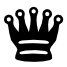
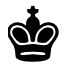
Schach & Schachmatt Funktion
*Rohentwurf mit grober Funktionalität

Changed region(s): [[0.0597, 0.0597, 0.9552, 0.9254], [0.4776, 0.6866, 0.806, 0.9254], [0.7761, 0.597, 0.8358, 0.6567]]

diff --git a/index.php b/index.php
@@ -8,6 +8,16 @@
 	
 	
 	<?php
+			include './rules/bauer.php';
+			include './rules/turm.php';
+			include './rules/dame.php';
+			include './rules/konig.php';
+			include './rules/laufer.php';
+			include './rules/pferd.php';
+
+
+
+
 		 //Funktion um PHP Funktionen zu debuggen
         function debug_to_console( $data ) {
 
@@ -47,10 +57,8 @@
 		 * @param  [string] $_leer
 		 * @return [boolean]
 		 */
-		function isZugErlaubt($_vZ, $_vS, $_nZ, $_nS, $_brett, $_leer, $_zugFarbe)
+		function isZugErlaubt($_vZ, $_vS, $_nZ, $_nS, $_brett, $_leer, $_zugFarbe, $_4Schach)
 		{
-				debug_to_console("Fuction isZugerLaubt");
-				debug_to_console("isZugErlaubt-paras:".$_vZ.",".$_vS.",".$_nZ.",".$_nS.",".$_leer);
 
 				//ENUM
 				$WEISS = "w";
@@ -61,63 +69,56 @@
 				$boo = false;
 				
 			//Wenn die Zugnummer gerade ist, ist weiß am Zug wenn es ungerade ist schwarz	
-			debug_to_console("$_zugFarbe");
 								
 			//---------Quellfigur			
 			$rawFigur = $_brett[$_vZ][$_vS];
 			$figurFarbe = ($rawFigur[0] == $WEISS ? $WEISS : "");
 			$figurName = ($figurFarbe == $WEISS ? substr($rawFigur, 1) : substr($rawFigur, 0));
 
-			debug_to_console ("Figur war:".$figurFarbe.$figurName);
 	
 			//------ Ziel Position
 			$zielPosition = $_brett[$_nZ][$_nS];
 			$zielPositionIsLerr = ($zielPosition == "leer" ? true : false);
 	
 			$feldFigurFarbe = (!$zielPositionIsLerr && $zielPosition[0] == $WEISS ) ? $WEISS : $SCHWARZ ;
-			debug_to_console ("Gegner ist/war ".$feldFigurFarbe.$zielPosition." <br>");
 		
 			
 			//Wenn die _zugFarbe ungleich der Figurfarbe? Quasi das der Spieler die richtige Farbe bewegt
 			if($_zugFarbe != $figurFarbe)
 			{
 				
-				debug_to_console("Figurname: ". $figurName);
+				//debug_to_console("Figurname: ".$figurFarbe. $figurName);
+			
 				switch($figurName){
-				 
+					
 					case ("bauer"):
 					
-					 	include './rules/'.$figurName.'.php';
 					 	$isZugKorrekt = checkBauer($_vZ, $_vS, $_nZ, $_nS, $_brett, $_leer, $feldFigurFarbe, $figurFarbe);
 						
 						break;
 					case("turm"):
 						
-					 	include './rules/'.$figurName.'.php';
 					 	$isZugKorrekt = checkTurm($_vZ, $_vS, $_nZ, $_nS, $_brett, $_leer, $feldFigurFarbe, $figurFarbe);
 		
 						break;
 					case("laufer"):
 						
-						include './rules/'.$figurName.'.php';
 					 	$isZugKorrekt = checkLaufer($_vZ, $_vS, $_nZ, $_nS, $_brett, $_leer, $feldFigurFarbe, $figurFarbe);
 						break;
 					
 					case("pferd"):
 						
-						include './rules/'.$figurName.'.php';
 						$isZugKorrekt = checkPferd($_vZ, $_vS, $_nZ, $_nS, $_brett, $_leer, $feldFigurFarbe, $figurFarbe);
 						break;
 	
-					case("koenig"):
-						
-						
+					case("konig"):
+						$isZugKorrekt = checkKonig($_vZ, $_vS, $_nZ, $_nS, $_brett, $_leer, $feldFigurFarbe, $figurFarbe);
 						break;
+						
+					 
 					case("dame"):
+									
 						
-						
-						include './rules/turm.php';
-						include './rules/laufer.php';
 						$isZugKorrekt = checkTurm($_vZ, $_vS, $_nZ, $_nS, $_brett, $_leer, $feldFigurFarbe, $figurFarbe) || checkLaufer($_vZ, $_vS, $_nZ, $_nS, $_brett, $_leer, $feldFigurFarbe, $figurFarbe) ? true : false;
 
 						break;
@@ -131,7 +132,6 @@
 			else{
 				debug_to_console("Zug nicht erlaubt -- Farben gleich");
 				$isZugKorrekt = false;
-				echo "Falscher Spieler <br>";
 			}
 
 			
@@ -171,15 +171,19 @@
 						echo "nZ:".$nZ;
 						echo "nS:".$nS;
 						echo "--------------";
-						$_zug_erlaubt = isZugErlaubt($vZ, $vS, $nZ, $nS, $brett, $leer, $zugNum);
+						$_zug_erlaubt = isZugErlaubt($vZ, $vS, $nZ, $nS, $brett, $leer, $zugNum, false);
 					
 					//TODO Gucken Feierbaned
 						if($_zug_erlaubt){
 							debug_to_console("Zug erlaubt!!!!!!");
-							$zugNum++;
+							
 							$brett[$nZ][$nS]=$brett[$vZ][$vS];
 							$brett[$vZ][$vS]=$leer;
 							
+							include '/rules/schach.php';
+							$isSchach = SchachPrufung($brett,$nZ,$nS,$zugNum,$leer,true);
+								 
+							$zugNum++;
 						}
 						 
 						$Weitergabe = serialize($brett); 
@@ -197,7 +201,7 @@
 						array('','leer','leer','leer','leer','leer','leer','leer','leer'),
 						array('','leer','leer','leer','leer','leer','leer','leer','leer'),
 						array('','wbauer','wbauer','wbauer','wbauer','wbauer','wbauer','wbauer','wbauer'),
-						array('','wturm','wpferd','wlaufer','wkonig','wdame','wlaufer','wpferd','wturm')
+						array('','wturm','wpferd','wlaufer','wdame','wkonig','wlaufer','wpferd','wturm')
 						
 					); 
 		

diff --git a/rules/schach.php b/rules/schach.php
@@ -1,0 +1,110 @@
+<?php
+	 
+
+	function SchachPrufung($_brett,$_vZ,$_vS,$_zugNum,$_leer,$_4Schach){
+		$WEISS = "w";
+		$zugFarbe = $_zugNum % 2 == 0 ? $WEISS : "" ;
+		$meinFigur = $_brett[$_vZ][$_vS];
+		debug_to_console("Prüfung auf Schach mit ".$meinFigur);
+
+		for ($z=1; $z < 8 ; $z++) 
+		{ 
+			for ($s=1; $s<8 ; $s++) 
+			{ 
+
+				debug_to_console($z.$s);  
+				if ($_brett[$z][$s]==$zugFarbe."konig") 
+				{
+						$konigS = $s;
+						$konigZ = $z;
+						debug_to_console("König gefunden auf Zeile:".$z." Spalte:".$s);
+
+						$isSchach = isZugErlaubt($_vZ,$_vS,$konigZ,$konigS,$_brett,$_zugNum,$_leer,$_4Schach);	 
+						if ($isSchach) 
+						{
+							debug_to_console("Der Gegnerkönig steht im Schach");
+							$isMatt = SchachMattPrufung($konigZ,$konigS,$_brett,$_zugNum);
+							if (!$isMatt) {
+								echo "<h1>SCHAMCHTTTTTTTTT</h1>";
+							}
+							return true;
+						}
+						break;
+					 	
+				}
+			}
+		}
+
+	}
+
+	function SchachMattPrufung($_konigZ,$_konigS,$_brett,$_zugNum)
+	{
+		debug_to_console("--------------------SchachMattPrufung------");
+		// Prüfung jedes nicht weiter als 1 entfernte Feld ob es leer ist && Prufe ob alle Gegner Figuren da hin kommen
+		$zugFarbe = $_zugNum % 2 == 0 ? "w" : "" ;
+		$konigFarbe = getFigurFarbe($_brett,$_konigZ,$_konigS);
+		$MoglicherAusweichPunkt = true;
+
+		for ($zeile=1; $zeile<=8 ; $zeile++) 
+		{ 
+			for ($s=1; $s<=8 ; $s++) 
+			{ 
+					if ($_brett[$zeile][$s] == "leer" && isZugErlaubt($_konigZ,$_konigS,$zeile,$s,$_brett,"leer",$_zugNum,false) ) 
+					{
+						debug_to_console("MoglicherAusweichPunkt bei".$zeile.$s." postiv");
+					 
+							
+							for ($z2=1; $z2 <= 8; $z2++) 
+							{ 
+								for ($s2=1; $s2 <= 8; $s2++) 
+								{ 
+									
+									if ($_brett[$z2][$s2] != "leer" && $konigFarbe != getFigurFarbe($_brett,$z2,$s2) ) 
+									{
+										//debug_to_console($_brett[$z2][$s2]." auf $z2 $s2 wird auf mögichen Zug gegen König probiert");
+										$zuger = isZugErlaubt($z2, $s2, $zeile, $s, $_brett, "leer", $zugFarbe, "false");
+										if ($zuger) 
+										{
+											debug_to_console($_brett[$z2][$s2]." kann den König schlagen");
+											$MoglicherAusweichPunkt = false;
+										}
+
+									 
+
+									
+								}
+							}
+
+						
+
+					}
+
+
+				}
+
+			}
+		
+			
+		}				
+			return $MoglicherAusweichPunkt;
+	}
+
+	function getFigurFarbe($_brett,$_z,$_s){
+		$WEISS = "w";
+		$rawFigur = $_brett[$_z][$_s];
+		switch ($rawFigur[0]) {
+			case 'w':
+				return "w";
+				break;
+			
+			//case 'l':
+			//	return "leer";
+			//	break;
+
+			default:
+				return "";
+				break;
+
+		}
+	}
+?>

diff --git a/rules/laufer.php b/rules/laufer.php
@@ -7,42 +7,51 @@ function checkLaufer($_vZ, $_vS, $_nZ, $_nS, $_brett, $_leer, $_feldFigurFarbe, 
 	$isZugKorrekt = false;
 	
 	$abstand = 	($_vZ*8+$_vS)-($_nZ*8+$_nS);
-	$richtung = ($_vZ*8+$_vS) < ($_nZ*8+$_nS) ? 1 : -1;
-	$isBlocked = true;
+	$richtungH = ($_vZ*8+$_vS) < ($_nZ*8+$_nS) ? 1 : -1;
+	$richtungV = $_vS > $_nS ? -1 : 1;
+	$isBlocked = false;
 	$pos1 = ($_vZ*7+$_vS); echo "$pos1";
 	$pos2 = ($_nZ*7+$_nS); echo "$pos2";
 	$isRichtunOK = false;
 
 
-			if ($abstand%7==0) {
-				$isRichtunOK = true;
-				for ($i=$pos1+($richtung*7); $i < $pos2 || $i > $pos2 ; $i=$i+($richtung*7))
-				{
+	if ($abstand%7==0) {
+		$isRichtunOK = true;
 
-					debug_to_console("7floor:".floor($i/7)." & Modulo: ". $i%8);
-					debug_to_console($_brett[floor($i/7)][$i%8]);
-					if ($_brett[floor($i/7)][$i%8] == $_leer) {
-						$isBlocked = false;
-						debug_to_console("Da ist ein ".$_brett[floor($i/7)][$i%8]." im Weg");
-						break;
-					}
 					
+					
+		for ($s=$_vS+$richtungV,$z=$_vZ+$richtungH; $z*7+$s!=$_nZ*7+$_nS; $s+=$richtungV,$z+=$richtungH)
+		{
+				/*debug_to_console("Von:".($z*7+$s)." Nach:".($_nZ*7+$_nS));
+				debug_to_console("Wir sind im Feld: ".$z.", ".$s);
+				debug_to_console($_brett[$z][$s]);
+*/
+				if ($_brett[$z][$s] != "leer") {
+					//debug_to_console("Das ist im Weg:".$_brett[$z][$s]);
+					$isBlocked = true;
+					break;
 				}
+
+		}
+					
+			
 				 
 			} elseif($abstand%9==0) {
 				$isRichtunOK = true;
 
-			for ($i=$pos1+($richtung*9); $i < $pos2 || $i > $pos2 ; $i=$i+($richtung*9))
-				{
-					debug_to_console("9floor:".floor($i/7)." & Modulo: ". $i%8);
-					debug_to_console($_brett[floor($i/7)][$i%8]);
-					debug_to_console("aktuelle pos:".$i);
-					if ($_brett[floor($i/7)][$i%8] == $_leer) {
-						$isBlocked = false;
-						debug_to_console("Da ist ein ".$_brett[floor($i/7)][$i%8]." im Weg");
-						break;
-					}
+		for ($s=$_vS+$richtungV,$z=$_vZ+$richtungH; $z*7+$s!=$_nZ*7+$_nS; $s+=$richtungV,$z+=$richtungH)
+		{
+/*				debug_to_console("Von:".($z*7+$s)." Nach:".($_nZ*7+$_nS));
+				debug_to_console("Wir sind im Feld: ".$z." ".$s);
+				debug_to_console($_brett[$z][$s]);
+*/
+				if ($_brett[$z][$s] != "leer") {
+					//debug_to_console("Das ist im Weg:".$_brett[$z][$s]);
+					$isBlocked = true;
+					break;
 				}
+
+		}
 
 			}
 			$isZugKorrekt = !$isBlocked && $isRichtunOK ? true : false;

diff --git a/rules/konig.php b/rules/konig.php
@@ -1,0 +1,18 @@
+<?php
+
+function checkKonig($_vZ, $_vS, $_nZ, $_nS, $_brett, $_leer, $_feldFigurFarbe, $_figurFarbe){
+
+	$_isZugKorrekt = false;
+
+	$_isZugKorrekt = 	abs($_vS-$_nS) == 1 && abs($_vZ-$_nZ) == 0||
+						abs($_vZ-$_nZ) == 1 && abs($_vS-$_nS) == 0|| 
+						abs(($_vZ*8+$_vS)-($_nZ*8+$_nS)) == 7 || 
+						abs(($_vZ*8+$_vS)-($_nZ*8+$_nS)) == 9
+				? true : false;
+	 
+	
+						
+	return $_isZugKorrekt;
+}
+	
+?>

diff --git a/rules/pferd.php b/rules/pferd.php
@@ -2,7 +2,7 @@
 function checkPferd($_vZ, $_vS, $_nZ, $_nS, $_brett, $_leer, $_feldFigurFarbe, $_figurFarbe)
 {
 	$isZugKorrekt = false;
-						debug_to_console("Pferdzug-Prüfung:");
+						//debug_to_console("Pferdzug-Prüfung:");
 								
   	$isZugKorrekt = (	(abs($_vZ-$_nZ) == 1 && abs($_vS-$_nS) == 2) ||
   						(abs($_vZ-$_nZ) == 2 && abs($_vS-$_nS) == 1)

diff --git a/rules/turm.php b/rules/turm.php
@@ -2,7 +2,6 @@
 
 	function checkTurm($_vZ, $_vS, $_nZ, $_nS, $_brett, $_leer, $feldFigurFarbe, $figurFarbe){
 		//Zeile Von und _Nach sind gleich aber Spalte verschieden ansonsten ungedreht
-		debug_to_console('checkD1');
 		
 						if ($_vZ == $_nZ && $_vS != $_nS) {
 							

diff --git a/rules/dame.php b/rules/dame.php
@@ -1,0 +1,6 @@
+<?php
+		
+
+		
+
+?>
